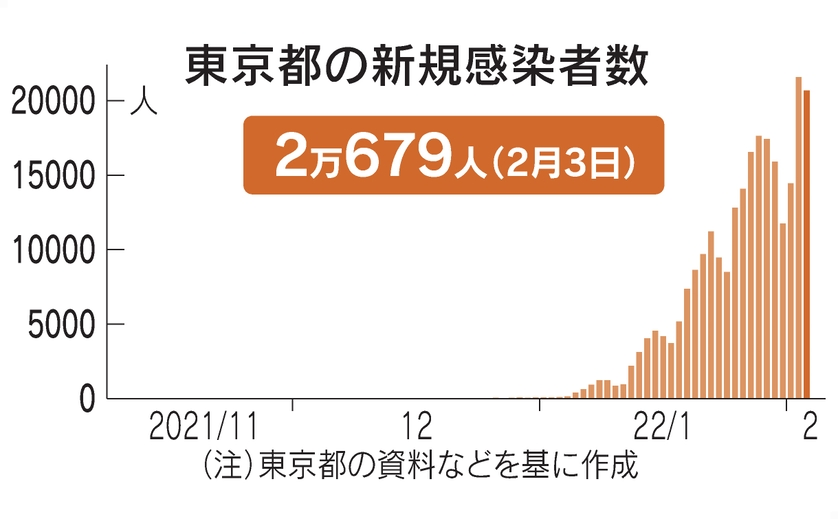
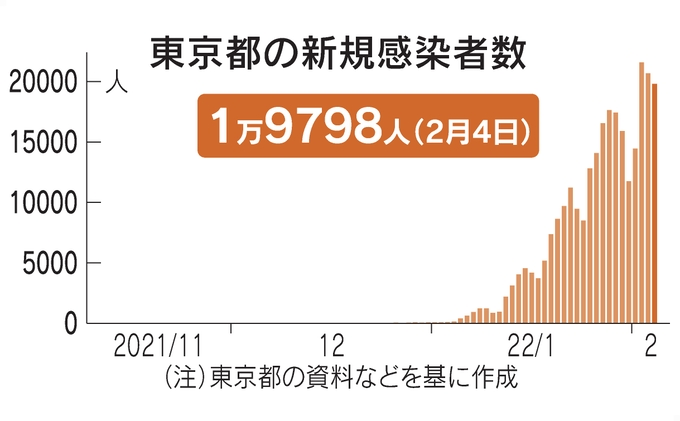
regular update

diff --git a/parts/news.php b/parts/news.php
@@ -40,6 +40,25 @@
         </li> 
 
     <hr> -->
+         2022年02月04日
+    
+        <li>
+                <i class="far fa-file-alt"></i>
+                <a href="https://www.nikkei.com/article/DGXZQOCC040GK0U2A200C2000000/" target="blank" rel="noopener">
+                東京都、新たに1万9798人感染　7日平均で前週の1.3倍</a>
+        </li>
+         <li>
+                <i class="far fa-file-alt"></i>
+                <a href="https://www.nikkei.com/article/DGXZQOUA0468Y0U2A200C2000000/" target="blank" rel="noopener">
+                コロナ重症者、4カ月ぶり1000人超　前日から131人増</a>
+        </li>
+        <li>
+                <i class="far fa-file-alt"></i>
+                <a href="https://www.nikkei.com/article/DGXZQOCC035FE0T00C22A2000000/" target="blank" rel="noopener">
+                東京都が緊急事態要請の新基準　重症者や7日平均感染数</a>
+        </li> 
+
+    <hr>
          2022年02月03日
     
         <li>
